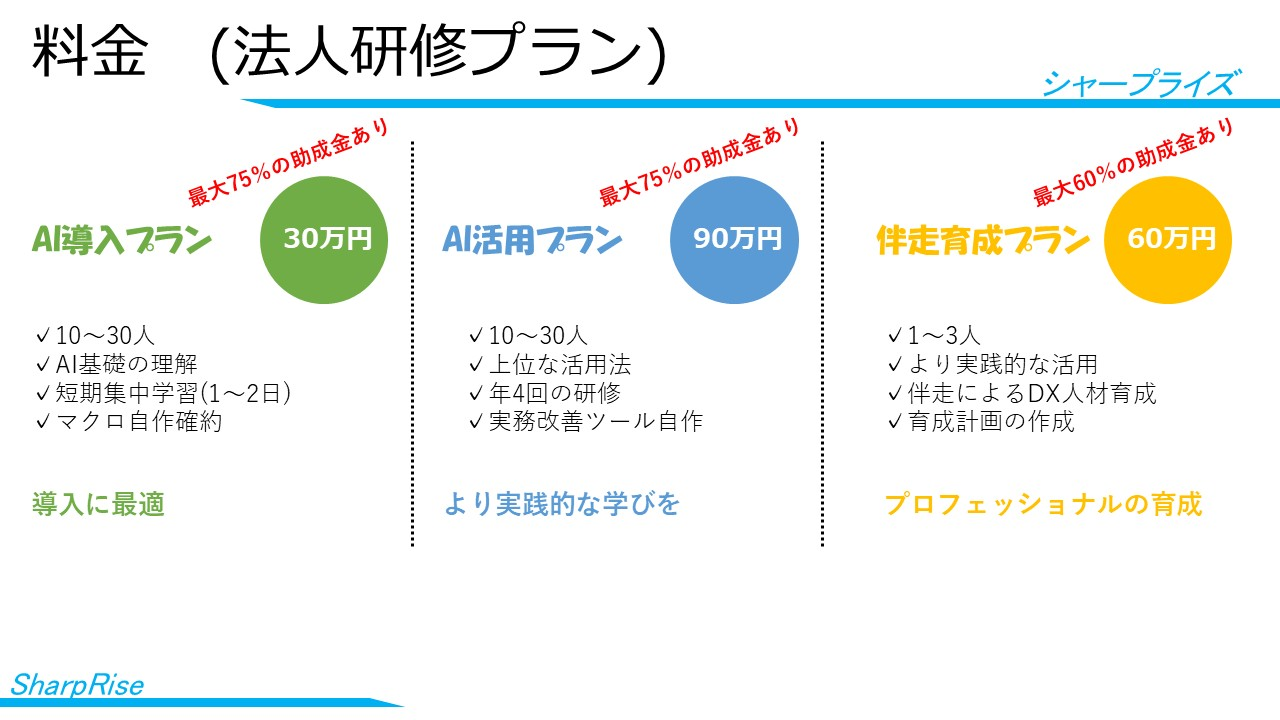
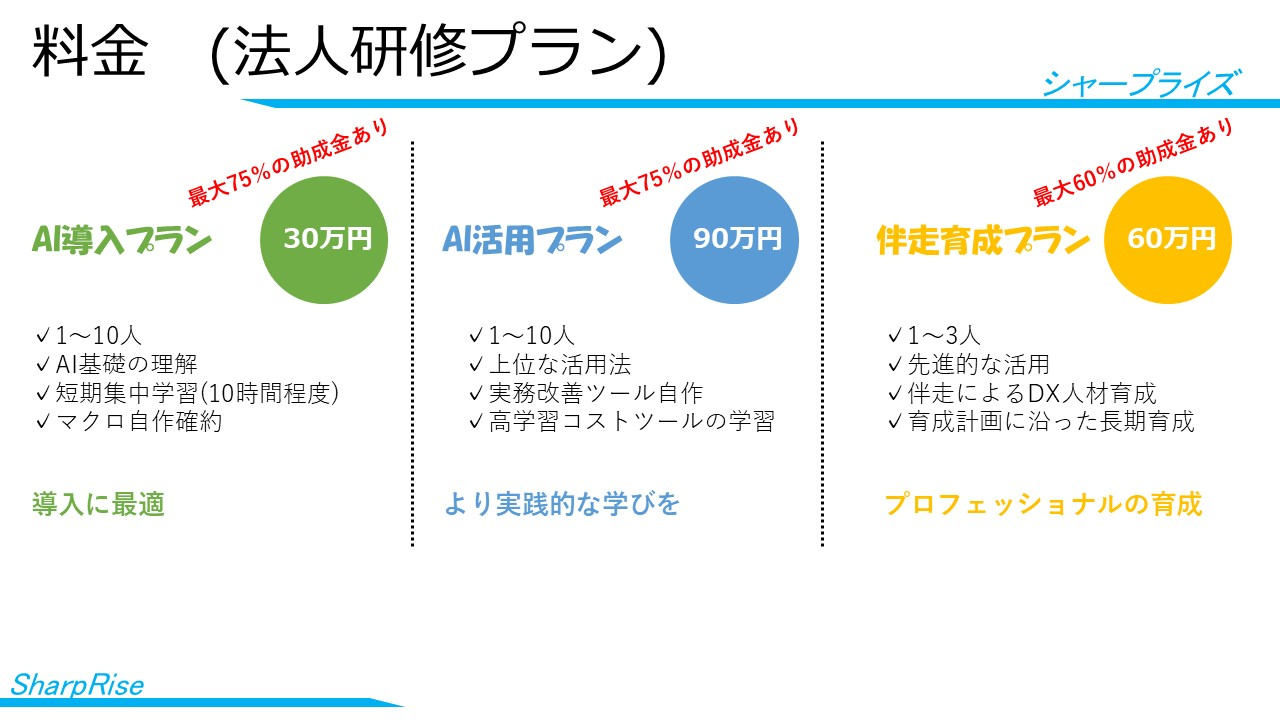
planpriceのリライト

diff --git a/news/planprice_education_company.html b/news/planprice_education_company.html
@@ -134,7 +134,7 @@
         <div class="c-articleContent">
           <h2>はじめに</h2>
           <p>
-            近年、AI（人工知能）やDX（デジタルトランスフォーメーション）の重要性が急速に高まっています。「自社にAIを導入したいけれど、どう始めればよいか分からない」「社員に最新スキルを習得させたい」とお悩みの中小企業経営者の皆様に向け、当社は<strong>SharpRise（シャープライズ）</strong>の<strong>AI研修プラン</strong>をご提案いたします。
+            近年、chatGPTをはじめとした生成AIやDX（デジタルトランスフォーメーション）の重要性が急速に高まっています。「自社に生成AIを導入したいけれど、どう始めればよいか分からない」「社員に最新スキルを習得させたい」とお悩みな企業経営者の皆様に向け、当社SharpRise(シャープライズ)のAI研修プランをご提案いたします。
           </p>
 
           <h2>SharpRiseのAI研修プラン概要</h2>
@@ -143,26 +143,26 @@
           </p>
           <h3>1. AI導入プラン（30万円）</h3>
           <ul>
-            <li>対象人数：10～30人</li>
-            <li>内容：AI基礎理解、反復型実践会（1～2日）、マクロ自動作成など</li>
+            <li>対象人数：1～10人</li>
+            <li>内容：AI基礎理解、反復型実践会（10時間程度）、マクロ自動作成など</li>
             <li>特徴：AIの基礎知識を習得し、業務効率化の第一歩をサポート</li>
-            <li>助成金：最大75％の助成が受けられる可能性あり</li>
+            <li>助成金：最大75％の助成が利用可能</li>
           </ul>
 
           <h3>2. AI活用プラン（90万円）</h3>
           <ul>
-            <li>対象人数：10～30人</li>
+            <li>対象人数：1～10人</li>
             <li>内容：上位な運用法、半年間の研修、実務に即したツール作成</li>
             <li>特徴：既に導入済みのAIを最大限に活用し、業務改善に直結</li>
-            <li>助成金：こちらも最大75％の助成が利用可能</li>
+            <li>助成金：最大75％の助成が利用可能</li>
           </ul>
 
           <h3>3. 伴走育成プラン（60万円）</h3>
           <ul>
             <li>対象人数：1～3人</li>
             <li>内容：実務に基づいた特化システムの構築、研修計画の策定</li>
-            <li>特徴：社内にAIエキスパートを育成し、DX推進の中核となる人材を育てる</li>
-            <li>助成金：最大60％の助成が受けられる場合も</li>
+            <li>特徴：社内にAIエキスパートを育成し、DX推進の中核となる人材を育成する</li>
+            <li>助成金：最大60％の助成が利用可能</li>
           </ul>
 
           <h2>中小企業がAI研修を導入するメリット</h2>
@@ -185,7 +185,7 @@
           </p>
 
 
-          <h2>こんな中小企業の社長さんにおすすめ</h2>
+          <h2>こんな企業におすすめ</h2>
           <ul>
             <li>社員に最新のAIスキルを習得させたい</li>
             <li>業務効率化を推進し、コスト削減を実現したい</li>
@@ -193,20 +193,17 @@
             <li>DX推進のため、社内にリーダーを育成したい</li>
           </ul>
 
+          <p>　また弊社ではこのDX案件は丸投げしたい・このスキルは従業員に知識をつけさせたいから教育してほしい・今月は取りくむ余裕がないから取り組みをせず費用を抑えたい　など、要望に応じたプランの組み換えを提案しています。詳しくはこちらのページをご覧ください。→→  <a href="/news/plan_usecase.html" style="color: rgb(76, 109, 237);">弊社活用例</a></p>
+          
           <h2>まとめ・お問い合わせ</h2>
           <p>
-            SharpRise（シャープライズ）のAI研修プランは、最大75％の助成金を活用できるため、費用面での負担を大幅に軽減しながら、社員のスキルアップと企業のDX推進を強力にサポートします。自社の未来を見据え、今こそAI活用への第一歩を踏み出す絶好の機会です。
+            SharpRise（シャープライズ）のAI研修プランは最大75％の助成金を活用できるため、費用面での負担を大幅に軽減しながら社員を育成することが可能です。弊社はこれらプランを通じて従業員のスキルアップとDX推進を支援させていただきますので、自社の未来を見据え、AI活用の第一歩を踏みしていきましょう。
           </p>
-          <p>
-            研修プランの詳細や助成金申請に関するご相談は、ぜひ弊社までお問い合わせください。
-          </p>
-
-          <h2>お問い合わせ</h2>
           <p>
             生成AI導入に関するご相談や研修に関するお問い合わせは、以下のリンクからお気軽にご連絡ください。
           </p>
           <p>
-            <a href="../inquiry/inquiry_top.html">お問い合わせフォーム</a>
+            <a href="../inquiry/inquiry_top.html" style="color: rgb(76, 109, 237);">お問い合わせフォーム</a>
           </p>
         </div>
 
